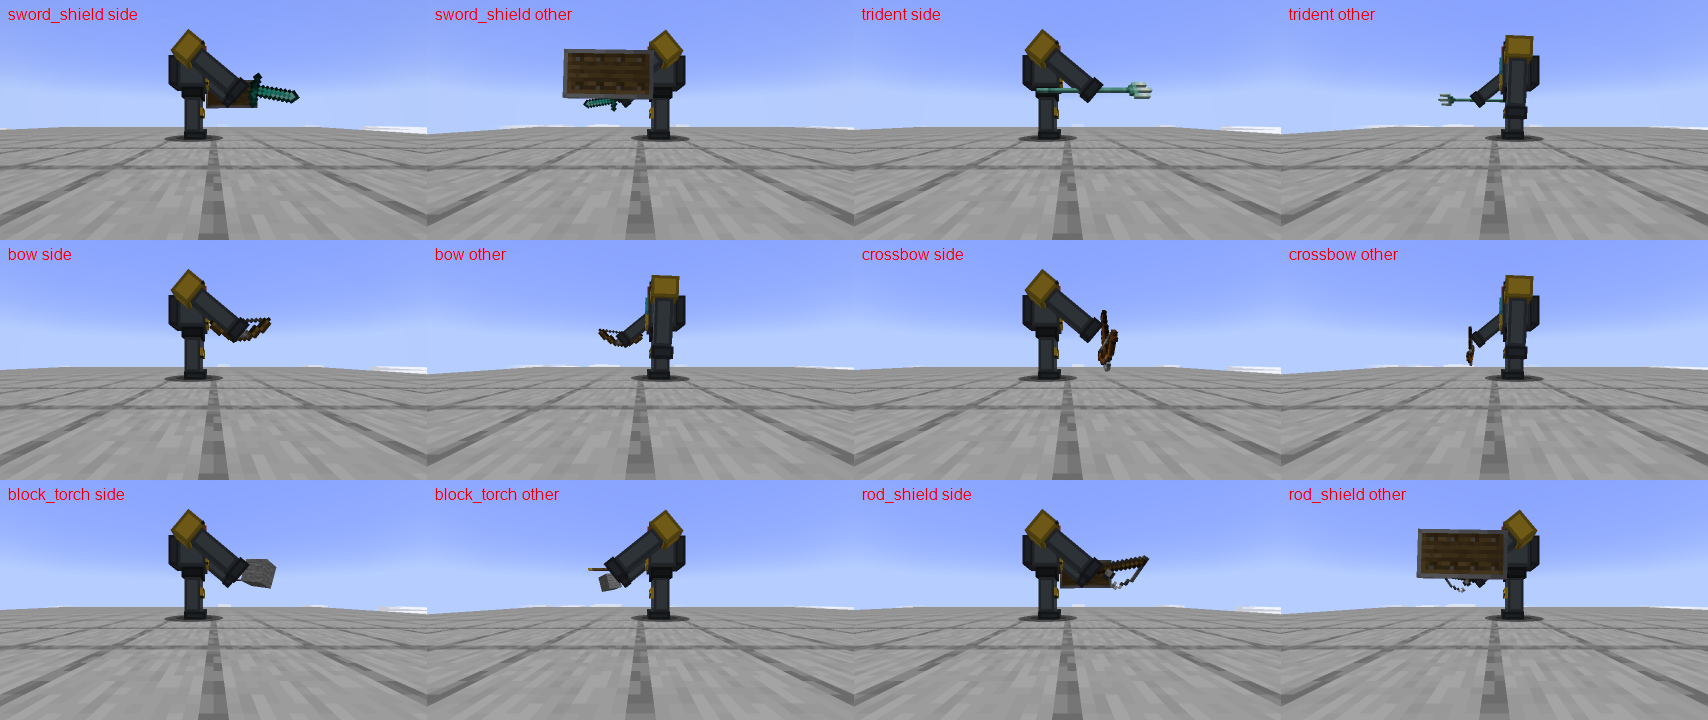
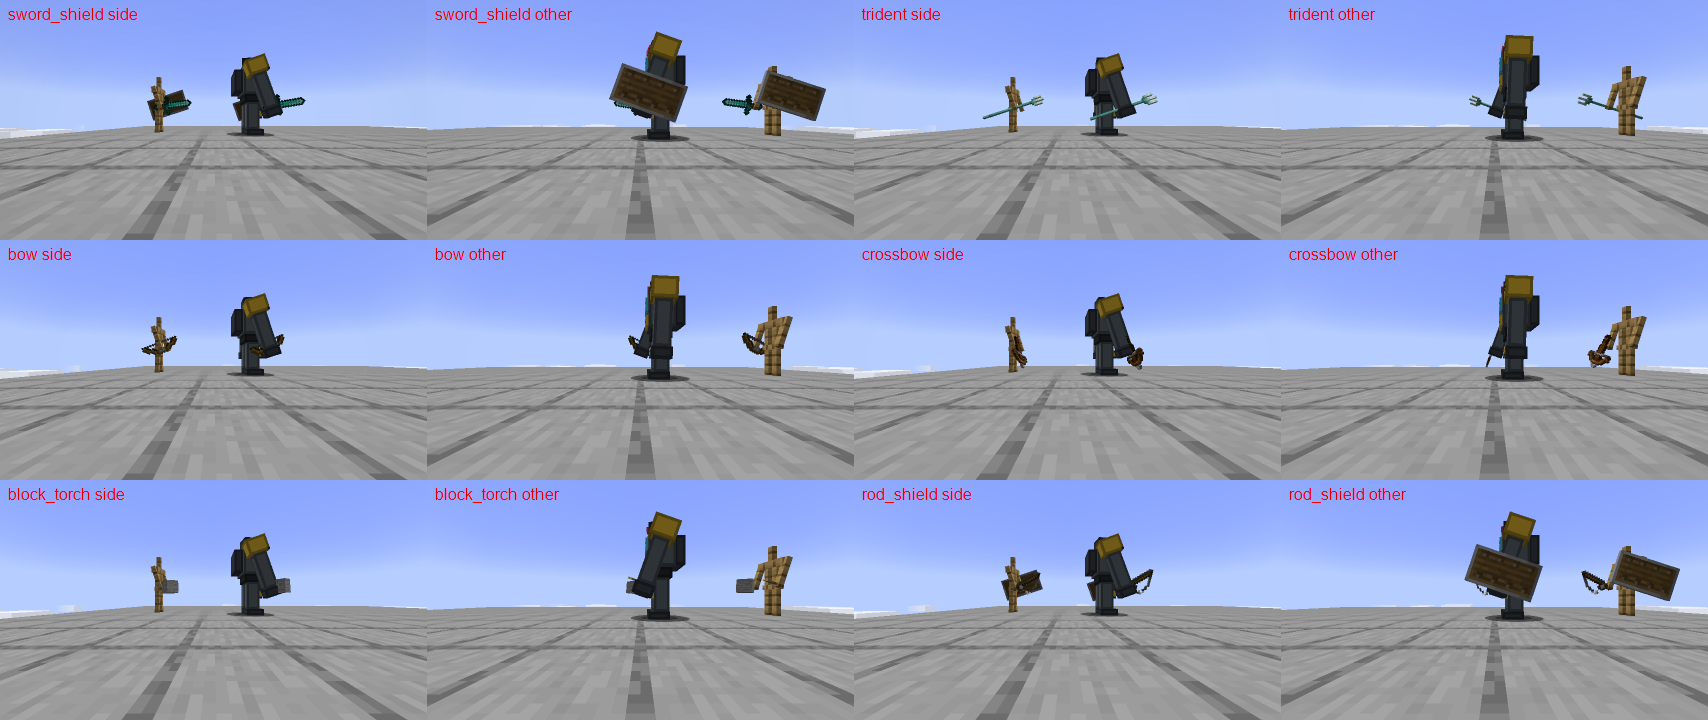
Stage 3 fixes: held items keep the player's angle in the fist
Drop the 50-degree lift with a counter-turned item: items are fixed to the
fist again and turn with it, at player size, with the arm carried 18
degrees forward like a player's. The grip point moves up inside the fist
so hanging items (crossbow, shield) still clear the ground.

diff --git a/src/main/java/com/projectrebirth/client/render/PilotArmPose.java b/src/main/java/com/projectrebirth/client/render/PilotArmPose.java
@@ -25,18 +25,11 @@ import software.bernie.geckolib.cache.object.GeoBone;
  * exactly what a normal player looks like; the armor's own animations keep the arms in every other case.
  */
 final class PilotArmPose {
-    /**
-     * How far an arm holding an item is lifted forward. The armor's long arms otherwise put the fist so low that
-     * shields, bows and tridents sink into the ground. The item itself is turned back by the same angle
-     * in {@code PowerArmorRenderer}, so it keeps its usual orientation and only rises with the fist.
-     */
-    private static final float HOLD_RAISE = (float) Math.toRadians(50.0);
+    /** An arm holding an item is carried slightly forward, like a player's (vanilla uses the same 18 degrees). */
+    private static final float HOLD_RAISE = (float) Math.toRadians(18.0);
     /** Highest arm angle of the armor's punch; the lift fades out towards it so the punch keeps its shape. */
     private static final float PUNCH_PEAK = (float) Math.toRadians(125.0);
     private static HumanoidModel<LivingEntity> model;
-    /** Lift applied to each arm for the armor being rendered right now (read by the held-item layer). */
-    private static float rightLift;
-    private static float leftLift;
 
     private PilotArmPose() {
     }
@@ -47,8 +40,8 @@ final class PilotArmPose {
         boolean poseRight = isPosed(rightPose, leftPose);
         boolean poseLeft = isPosed(leftPose, rightPose);
         boolean punching = isPunching(armor);
-        rightLift = lift(rightArm, holdsPlainItem(pilot, HumanoidArm.RIGHT), punching);
-        leftLift = lift(leftArm, holdsPlainItem(pilot, HumanoidArm.LEFT), punching);
+        lift(rightArm, holdsPlainItem(pilot, HumanoidArm.RIGHT), punching);
+        lift(leftArm, holdsPlainItem(pilot, HumanoidArm.LEFT), punching);
         if (!poseRight && !poseLeft) {
             return;
         }
@@ -74,29 +67,15 @@ final class PilotArmPose {
         }
     }
 
-    static void reset() {
-        rightLift = 0.0f;
-        leftLift = 0.0f;
-    }
-
-    /** How much the arm on the given side was lifted; the held item is turned back by this angle. */
-    static float liftOf(HumanoidArm side) {
-        return side == HumanoidArm.RIGHT ? rightLift : leftLift;
-    }
-
     /**
-     * The armor's animations set the arm angles anew every frame, so the lift is added on top of them.
-     * A loaded arm swings less when walking, so a hanging item does not dip into the ground. During the punch the
-     * swing stays full and the lift fades as the arm goes up, so there is no jump when the punch starts or ends.
+     * The armor's animations set the arm angles anew every frame, so the lift is added on top of them. During the
+     * punch the lift fades as the arm goes up, so there is no jump when the punch starts or ends.
      */
-    private static float lift(GeoBone arm, boolean holding, boolean punching) {
-        if (!holding) {
-            return 0.0f;
+    private static void lift(GeoBone arm, boolean holding, boolean punching) {
+        if (holding) {
+            float animated = arm.getRotX();
+            arm.setRotX(animated + (punching ? HOLD_RAISE * Mth.clamp(1.0f - animated / PUNCH_PEAK, 0.0f, 1.0f) : HOLD_RAISE));
         }
-        float animated = arm.getRotX();
-        float raise = punching ? HOLD_RAISE * Mth.clamp(1.0f - animated / PUNCH_PEAK, 0.0f, 1.0f) : HOLD_RAISE;
-        arm.setRotX((punching ? animated : animated * 0.4f) + raise);
-        return raise;
     }
 
     /** Only a plain held item lifts the arm, not the vanilla item poses. */

diff --git a/src/main/java/com/projectrebirth/client/render/PowerArmorRenderer.java b/src/main/java/com/projectrebirth/client/render/PowerArmorRenderer.java
@@ -28,8 +28,6 @@ public class PowerArmorRenderer extends GeoEntityRenderer<PowerArmorEntity> {
     private static final ResourceLocation WRECK_TEXTURE = ProjectRebirth.id("textures/entity/power_armor_wrecked.png");
     private static final String RIGHT_HAND = "right_hand";
     private static final String LEFT_HAND = "left_hand";
-    /** A bit larger than in a player's hand to suit the big fists, but small enough to stay off the ground. */
-    private static final float ITEM_SCALE = 1.25f;
 
     public PowerArmorRenderer(EntityRendererProvider.Context context) {
         super(context, new ArmorModel());
@@ -60,7 +58,6 @@ public class PowerArmorRenderer extends GeoEntityRenderer<PowerArmorEntity> {
         @Override
         public void setCustomAnimations(PowerArmorEntity armor, long instanceId, AnimationState<PowerArmorEntity> state) {
             super.setCustomAnimations(armor, instanceId, state);
-            PilotArmPose.reset();
             Player pilot = armor.getPilot();
             if (pilot == null || !armor.isActive()) {
                 return;
@@ -96,8 +93,8 @@ public class PowerArmorRenderer extends GeoEntityRenderer<PowerArmorEntity> {
 
         /**
          * Same transform as the vanilla held-item layer, so every item (sword handle, shield, bow, trident, crossbow)
-         * sits in the fist exactly as in a player's hand. The bone is at the bottom of the fist, where the vanilla
-         * layer ends up after moving down the arm.
+         * sits in the fist as in a player's hand, at the same size, and turns with the fist. The bone is in the upper
+         * part of the fist (higher than in a player's hand, so hanging items clear the ground under the long arms).
          */
         @Override
         protected void renderStackForBone(PoseStack poseStack, GeoBone bone, ItemStack stack, PowerArmorEntity armor,
@@ -107,13 +104,10 @@ public class PowerArmorRenderer extends GeoEntityRenderer<PowerArmorEntity> {
                 return;
             }
             boolean left = bone.getName().equals(LEFT_HAND);
-            // Undo the lift of an arm holding an item: the item rises with the fist but is not tilted.
-            poseStack.mulPose(Axis.XP.rotation(-PilotArmPose.liftOf(left ? HumanoidArm.LEFT : HumanoidArm.RIGHT)));
             // GeckoLib space -> vanilla model space (which is upside down).
             poseStack.mulPose(Axis.ZP.rotationDegrees(180.0f));
             poseStack.mulPose(Axis.XP.rotationDegrees(-90.0f));
             poseStack.mulPose(Axis.YP.rotationDegrees(180.0f));
-            poseStack.scale(ITEM_SCALE, ITEM_SCALE, ITEM_SCALE);
             poseStack.translate((left ? -1.0f : 1.0f) / 16.0f, 0.125f, 0.0f);
             // Rendering for the pilot gives the item its live look: bow pulling, loaded crossbow and so on.
             Minecraft.getInstance().getEntityRenderDispatcher().getItemInHandRenderer().renderItem(pilot, stack,

diff --git a/docs/STATUS.md b/docs/STATUS.md
@@ -41,10 +41,10 @@
 - **Руки брони принимают позы предметов, как у игрока**: натягивание лука, замах трезубцем, блок щитом, зарядка и
   удержание арбалета, подзорная труба, рог, кисть (`client/render/PilotArmPose`: позы считает скрытая ванильная модель
   игрока и переносит на кости брони; `stage3_item_poses.png`, `stage3_crossbow_charge.png`).
-- **Предметы не уходят в землю**: рука с обычным предметом приподнята вперёд на 50°, а сам предмет повёрнут
-  обратно и сохраняет обычный наклон; предметы немного крупнее, чем у игрока (×1.25). При ходьбе такая рука качается
-  слабее, при ударе размах полный и подъём плавно уходит, рывков нет
-  (`stage3_items_off_ground.png`, `stage3_punch_with_item.png`).
+- **Предметы держатся как у игрока и не уходят в землю**: предмет жёстко закреплён в кулаке и поворачивается вместе
+  с ним, размер как у игрока (×1); рука с предметом чуть вынесена вперёд (18°, как у игрока), точка хвата в верхней
+  части кулака, поэтому висящие предметы не достают до земли. При ударе подъём плавно уходит, рывков нет
+  (`stage3_items_off_ground.png`).
 - Кабина герметична: под водой пилот не задыхается.
 - Экран пилота: две полосы целостности, подсказки, при отключении красная строка и шкала сброса люка.
   Ванильные «сердца транспорта» скрыты. Сам пилот не виден снаружи, свою броню от первого лица не видит (не загораживает обзор).
@@ -181,7 +181,8 @@ Gradle сам не находит Microsoft JDK 21, поэтому её путь
 - Огонь и лава по броне в живой игре (только автотестом на множители).
 - Позы предметов и хват проверены по снимкам со второго клиента для меча, щита (в одной и в обеих руках), лука,
   трезубца, арбалета. Что предметы не касаются земли, проверено камерой у самой земли для меча, щита, трезубца,
-  лука, арбалета, блока, факела, удочки (в покое), арбалета со щитом при ходьбе и меча со щитом при ударе. Подзорная труба, рог, кисть, факел, блоки в руках не смотрелись. Позы от первого лица ванильные.
+  лука, арбалета, блока, факела, удочки (в покое, рядом стойка для брони с теми же предметами: наклон совпадает) и
+  арбалета со щитом при ходьбе. Подзорная труба, рог, кисть в руках не смотрелись. Позы от первого лица ванильные.
 - Одиночная игра.
 
 ## Что реально проверено: этап 2
@@ -258,7 +259,7 @@ Gradle сам не находит Microsoft JDK 21, поэтому её путь
 | `textures/item/power_armor.png`, `armor_plate.png`, `repair_wrench.png`, `rescue_tool.png` | ЗАГЛУШКИ |
 
 Правила для финальной модели брони: кости `root`, `torso`, `head`, `right_arm`, `left_arm`, `right_leg`, `left_leg`,
-а также пустые кости-точки `right_hand` и `left_hand` в центре нижней грани кулаков (дочерние к рукам): в них рисуются предметы;
+а также пустые кости-точки `right_hand` и `left_hand` в верхней части кулаков (на 3 пикселя выше их нижней грани) (дочерние к рукам): в них рисуются предметы;
 анимации `animation.power_armor.idle|walk|attack|shutdown|wrecked` (две последние с `"loop": "hold_on_last_frame"`);
 лицо на север (−Z), хитбокс 1.25×2.5; глаза пилота примерно на высоте 1.9 блока (стекло кабины).
 Важно: руки от первого лица (`client/render/ArmorArmRenderer`) повторяют кубы и развёртку рук из модели: при замене модели
